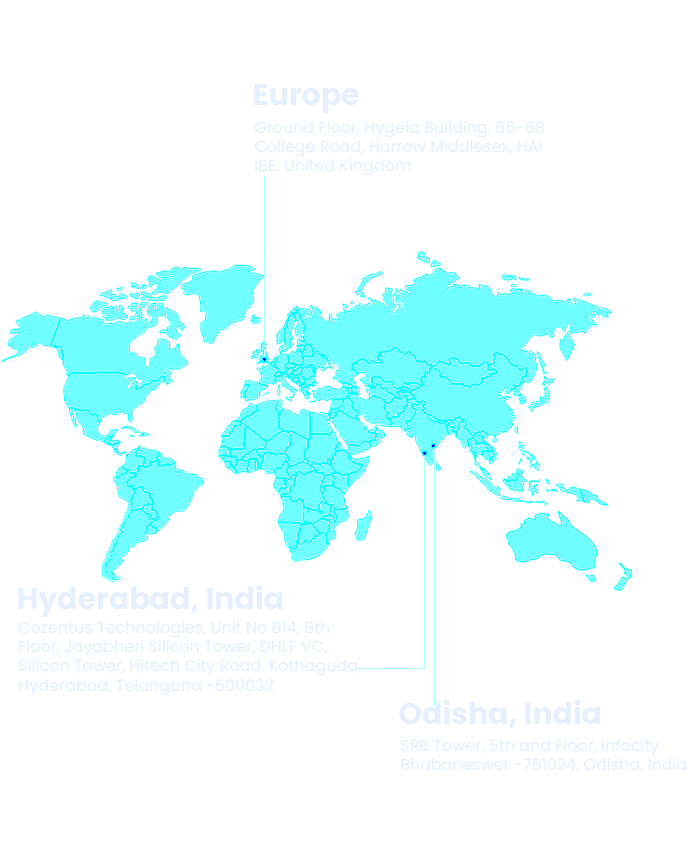
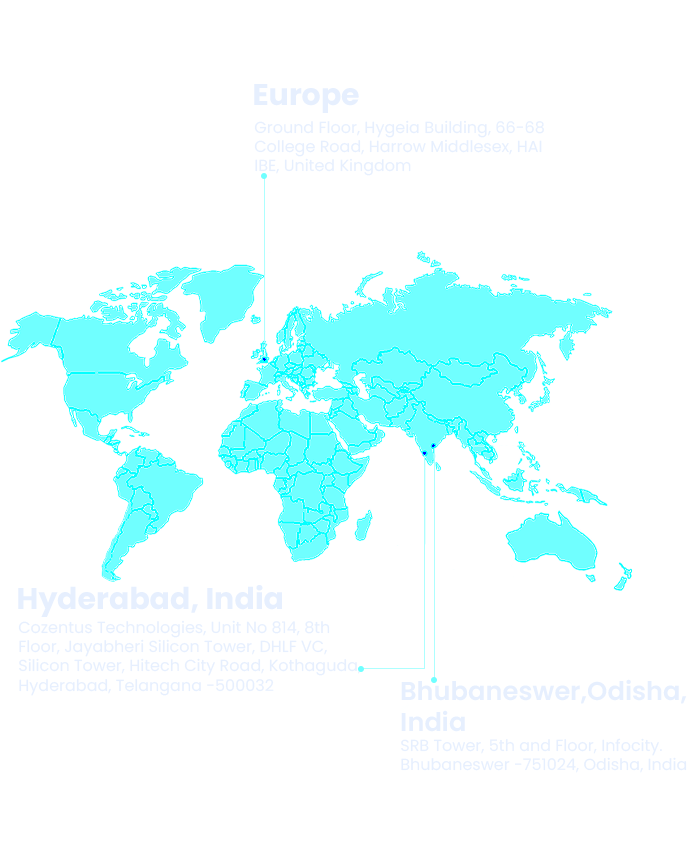
about us image change

Changed region(s): [[0.57, 0.7953, 0.99, 0.8565]]

diff --git a/application/views/parent-service.php b/application/views/parent-service.php
@@ -631,7 +631,7 @@
         /* ── label placement variants (specifically for each item) ── */
 
         /* 01: Quote & Contract */
-        .cz-s1 .cz-ai-info {
+        .czd-s1 .cz-ai-info {
             right: 124%;
             top: 2%;
             transform: translateY(-50%);
@@ -639,25 +639,25 @@
             width: 210px;
         }
 
-        .cz-s1 .cz-ai-num {
+        .czd-s1 .cz-ai-num {
             margin-left: auto;
         }
 
         /* 02: Plan & Schedule */
-        .cz-s2 .cz-ai-info {
+        .czd-s2 .cz-ai-info {
             bottom: 99%;
             left: 50%;
             transform: translateX(-50%);
             text-align: center;
         }
 
-        .cz-s2 .cz-ai-num {
+        .czd-s2 .cz-ai-num {
             margin-left: auto;
             margin-right: auto;
         }
 
         /* 03: Move & Transport */
-        .cz-s3 .cz-ai-info {
+        .czd-s3 .cz-ai-info {
             left: 124%;
             top: 2%;
             transform: translateY(-50%);
@@ -666,7 +666,7 @@
         }
 
         /* 04: Track & Visibility */
-        .cz-s4 .cz-ai-info {
+        .czd-s4 .cz-ai-info {
             left: 118%;
             top: 50%;
             transform: translateY(-50%);
@@ -675,33 +675,33 @@
         }
 
         /* 05: Store & Fulfil */
-        .cz-s5 .cz-ai-info {
+        .czd-s5 .cz-ai-info {
             top: 30%;
             left: 230%;
             transform: translateX(-50%);
             text-align: left;
         }
 
-        .cz-s5 .cz-ai-num {
+        .czd-s5 .cz-ai-num {
             margin-left: auto;
             margin-right: auto;
         }
 
         /* 06: Bill & Audit */
-        .cz-s6 .cz-ai-info {
+        .czd-s6 .cz-ai-info {
             top: 38%;
             left: -51%;
             transform: translateX(-50%);
             text-align: left;
         }
 
-        .cz-s6 .cz-ai-num {
+        .czd-s6 .cz-ai-num {
             margin-left: auto;
             margin-right: auto;
         }
 
         /* 07: Report & Improve */
-        .cz-s7 .cz-ai-info {
+        .czd-s7 .cz-ai-info {
             right: 110%;
             top: 42%;
             transform: translateY(-50%);
@@ -709,7 +709,7 @@
             width: 210px;
         }
 
-        .cz-s7 .cz-ai-num {
+        .czd-s7 .cz-ai-num {
             margin-left: auto;
         }
 
@@ -798,43 +798,43 @@
         }
 
         /* ── pedestal positions on the road (match the SVG nodes) ── */
-        .cz-s1 {
+        .czd-s1 {
             left: 30%;
             top: 33%;
         }
 
         /* Quote & Contract   */
-        .cz-s2 {
+        .czd-s2 {
             left: 50%;
             top: 38%;
         }
 
         /* Plan & Schedule    */
-        .cz-s3 {
+        .czd-s3 {
             left: 70%;
             top: 33%;
         }
 
         /* Move & Transport   */
-        .cz-s4 {
+        .czd-s4 {
             left: 76%;
             top: 60%;
         }
 
         /* Track & Visibility */
-        .cz-s5 {
+        .czd-s5 {
             left: 64%;
             top: 86%;
         }
 
         /* Store & Fulfil     */
-        .cz-s6 {
+        .czd-s6 {
             left: 38%;
             top: 88%;
         }
 
         /* Bill & Audit       */
-        .cz-s7 {
+        .czd-s7 {
             left: 24%;
             top: 62%;
         }
@@ -1184,7 +1184,7 @@
                 </div>
 
                 <!-- 01 -->
-                <div class="cz-ai-step cz-s1 cz-blue cz-left">
+                <div class="cz-ai-step czd-s1 cz-blue cz-left">
                     <div class="cz-ai-pedestal"><span>📝</span></div>
                     <div class="cz-ai-info">
                         <span class="cz-ai-num">01</span>
@@ -1194,7 +1194,7 @@
                 </div>
 
                 <!-- 02 -->
-                <div class="cz-ai-step cz-s2 cz-green cz-up">
+                <div class="cz-ai-step czd-s2 cz-green cz-up">
                     <div class="cz-ai-pedestal"><span>🗓</span></div>
                     <div class="cz-ai-info">
                         <span class="cz-ai-num">02</span>
@@ -1204,7 +1204,7 @@
                 </div>
 
                 <!-- 03 -->
-                <div class="cz-ai-step cz-s3 cz-purple cz-right">
+                <div class="cz-ai-step czd-s3 cz-purple cz-right">
                     <div class="cz-ai-pedestal"><span>🚚</span></div>
                     <div class="cz-ai-info">
                         <span class="cz-ai-num">03</span>
@@ -1214,7 +1214,7 @@
                 </div>
 
                 <!-- 04 -->
-                <div class="cz-ai-step cz-s4 cz-orange cz-right">
+                <div class="cz-ai-step czd-s4 cz-orange cz-right">
                     <div class="cz-ai-pedestal"><span>📍</span></div>
                     <div class="cz-ai-info">
                         <span class="cz-ai-num">04</span>
@@ -1224,7 +1224,7 @@
                 </div>
 
                 <!-- 05 -->
-                <div class="cz-ai-step cz-s5 cz-teal cz-down">
+                <div class="cz-ai-step czd-s5 cz-teal cz-down">
                     <div class="cz-ai-pedestal"><span>🏬</span></div>
                     <div class="cz-ai-info">
                         <span class="cz-ai-num">05</span>
@@ -1234,7 +1234,7 @@
                 </div>
 
                 <!-- 06 -->
-                <div class="cz-ai-step cz-s6 cz-amber cz-down">
+                <div class="cz-ai-step czd-s6 cz-amber cz-down">
                     <div class="cz-ai-pedestal"><span>🧾</span></div>
                     <div class="cz-ai-info">
                         <span class="cz-ai-num">06</span>
@@ -1244,7 +1244,7 @@
                 </div>
 
                 <!-- 07 -->
-                <div class="cz-ai-step cz-s7 cz-blue cz-left">
+                <div class="cz-ai-step czd-s7 cz-blue cz-left">
                     <div class="cz-ai-pedestal"><span>📈</span></div>
                     <div class="cz-ai-info">
                         <span class="cz-ai-num">07</span>
